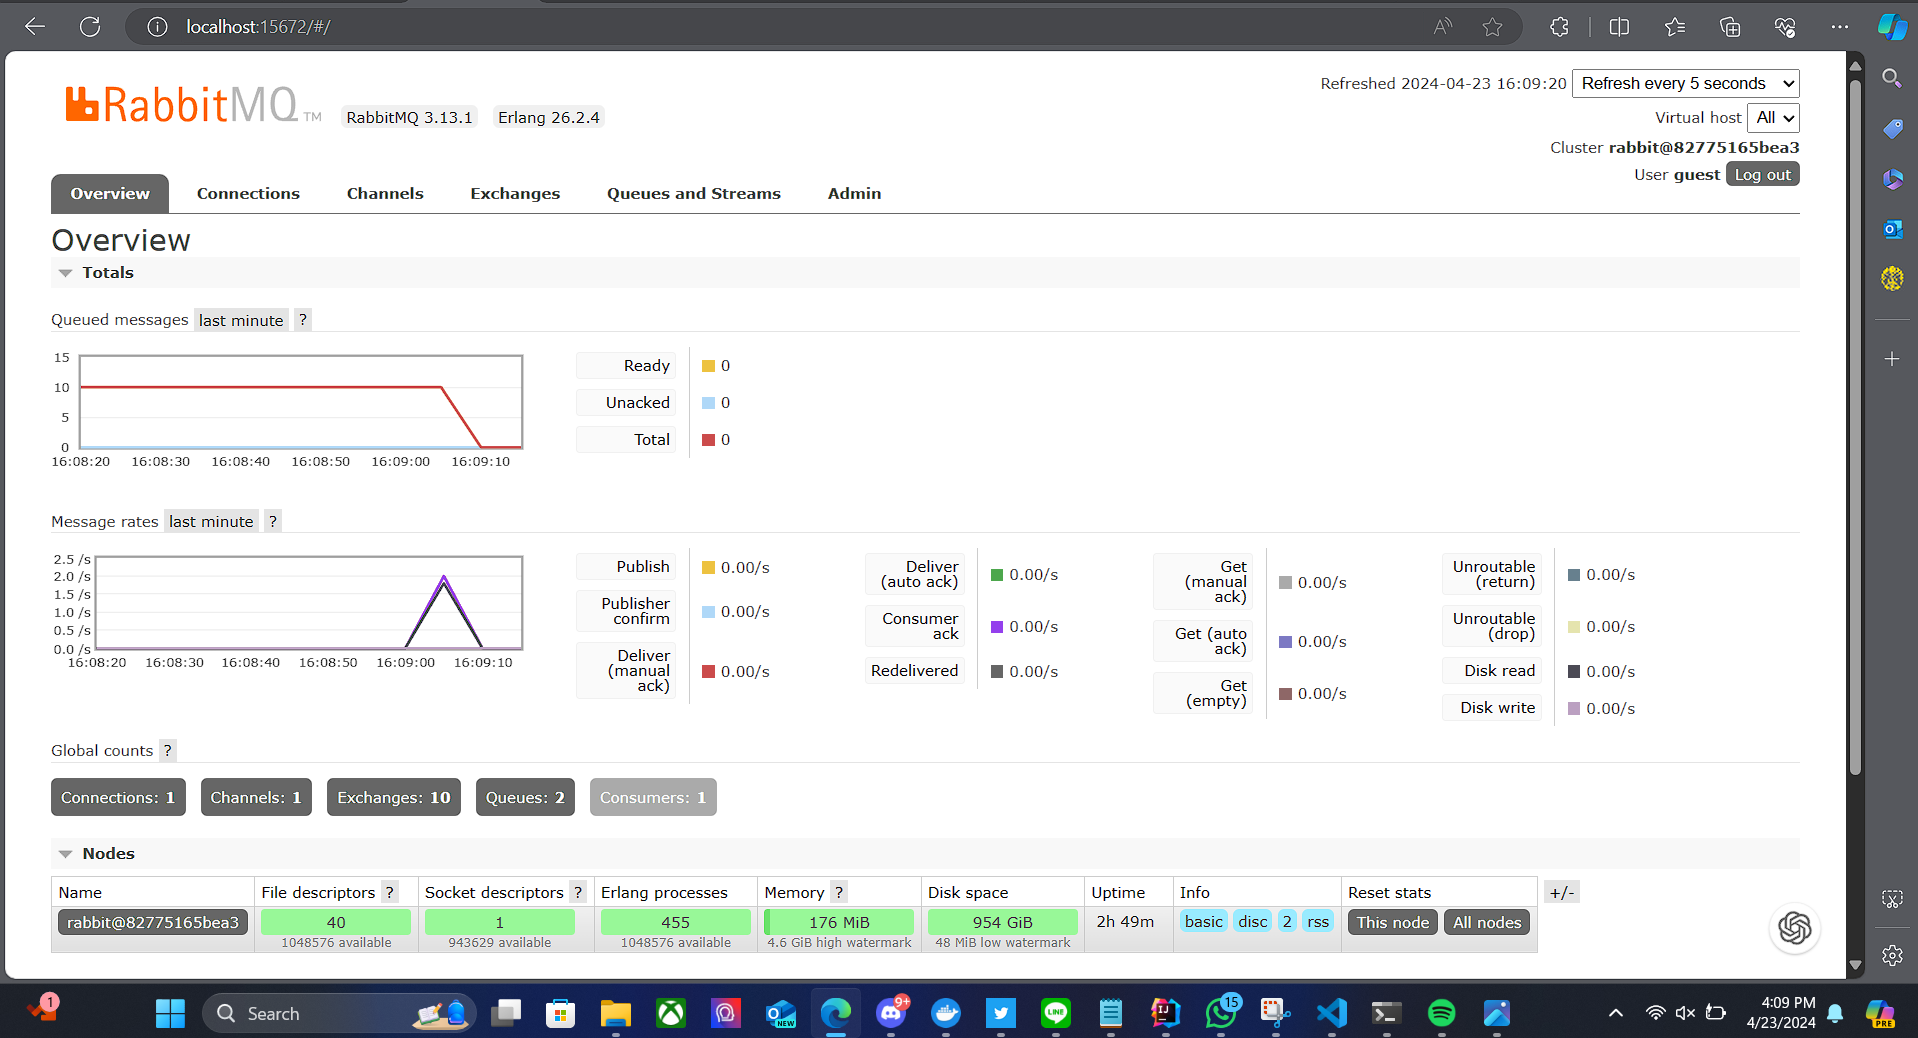
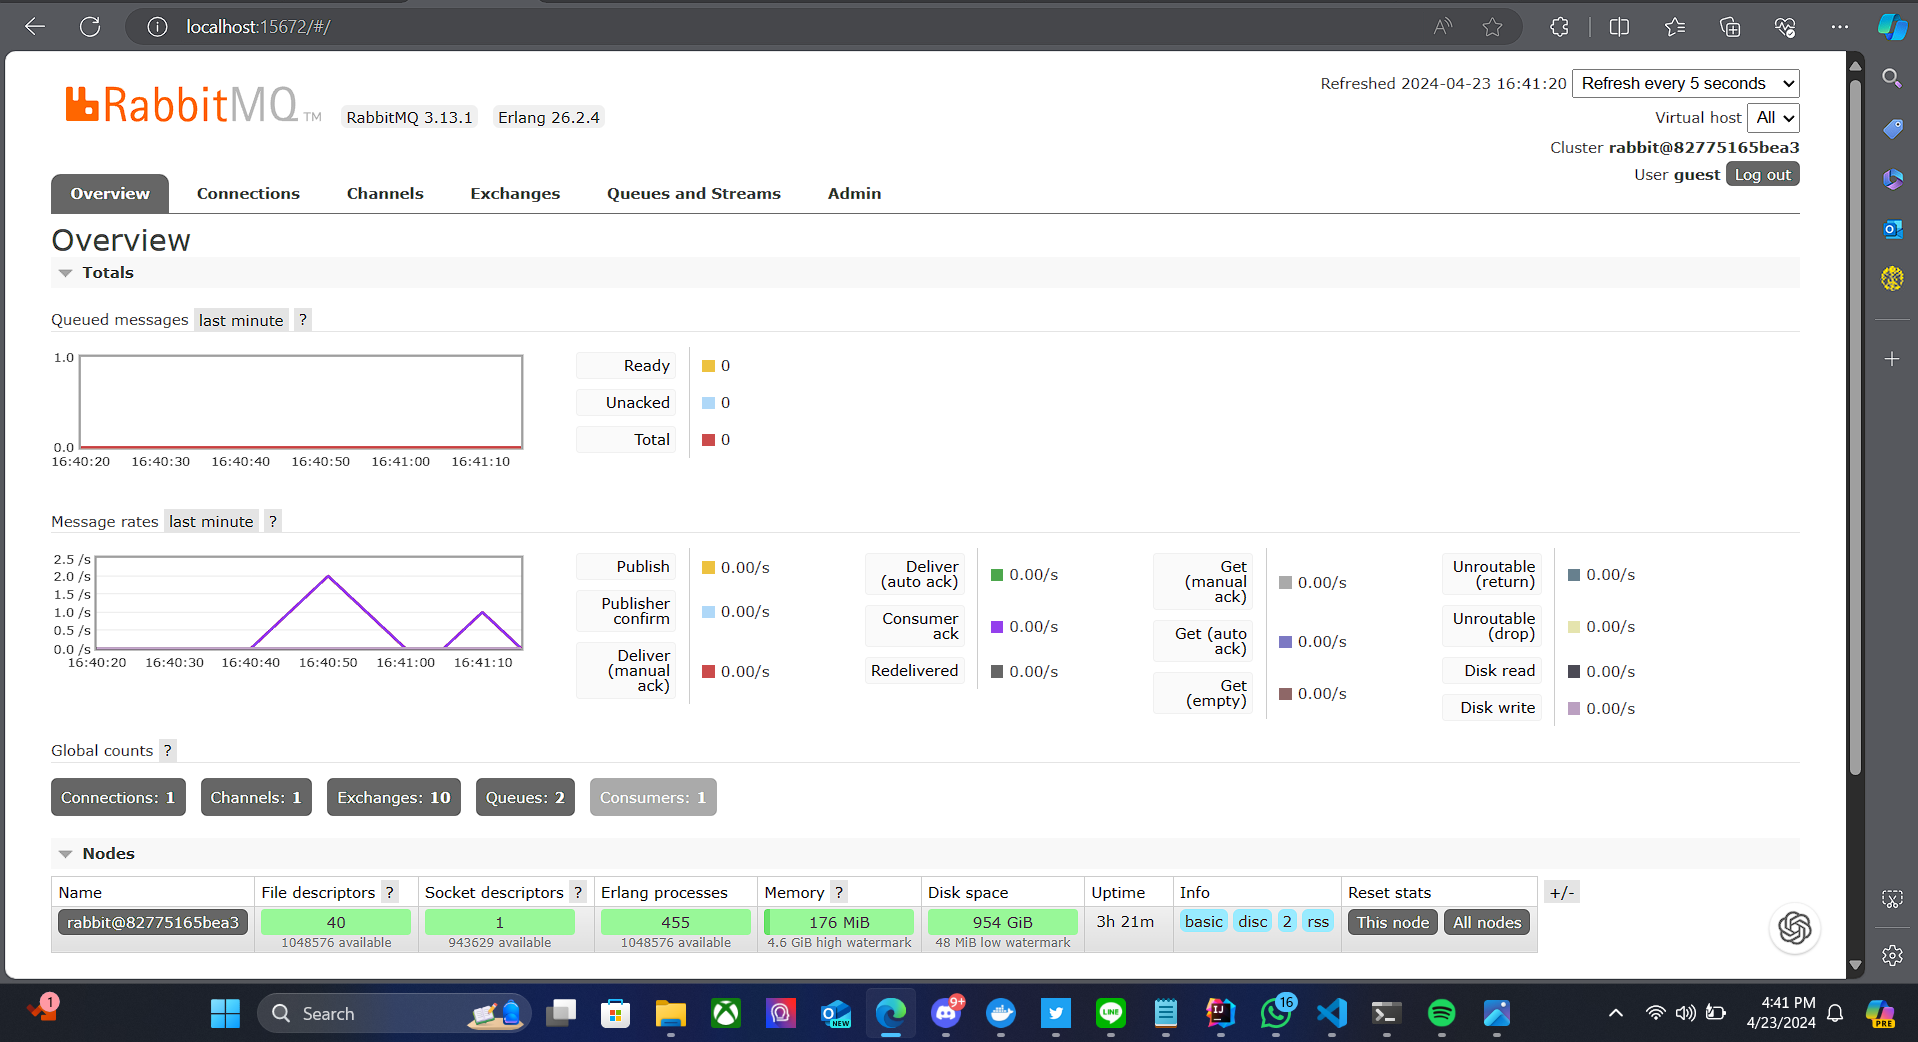
Monitoring chart based on publisher.

diff --git a/README.md b/README.md
@@ -12,3 +12,7 @@ Picture of Running RabbitMQ:
 Picture of Subscriber's Console Output:
 ![console](img/console-subscriber.png)
 Gambar diatas menunjukkan bahwa subscriber menerima message dari publisher pada saat program publisher dijalankan berupa lima baris output pada console. Subscriber yang terhubung pada message broker akan menerima data yang dikirimkan oleh publisher ke message broker.
+
+Picture of Running RabbitMQ while sending and processing event:
+![rabbit](img/rabbitmq-second-screenshot.png)
+Gambar diatas menunjukkan adanya subscriber yang ditandai dengan "Connections: 1 dan Consumers: 1". Pada gambar juga terlihat bahwa message rates meningkat yang menunjukkan bahwa rata-rata message meningkat saat message dikirim oleh publisher.
